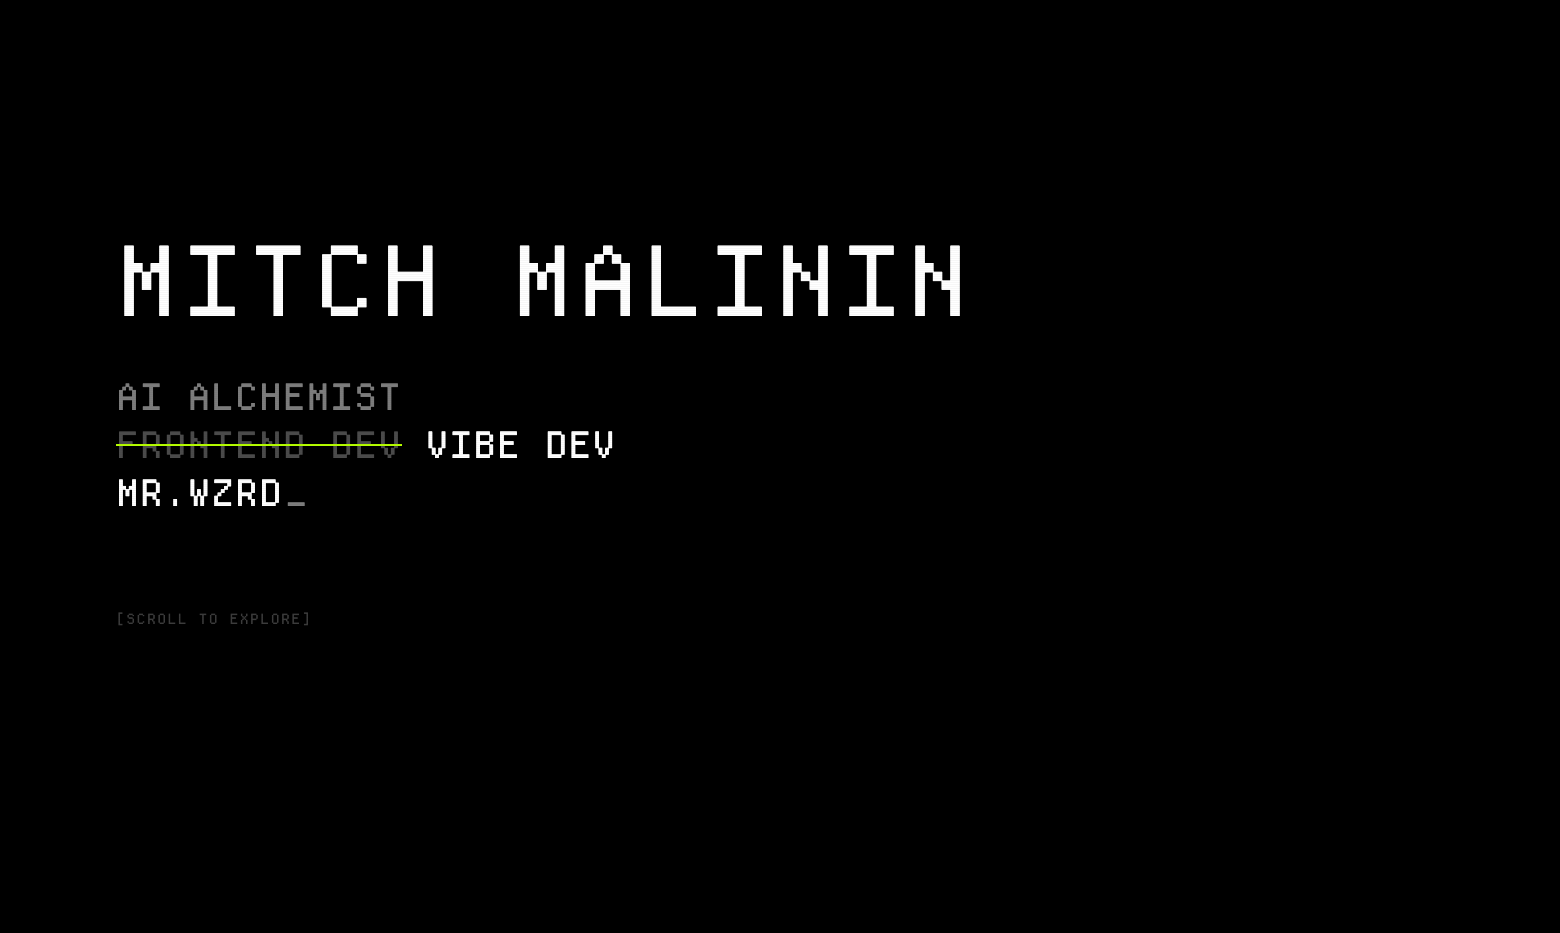
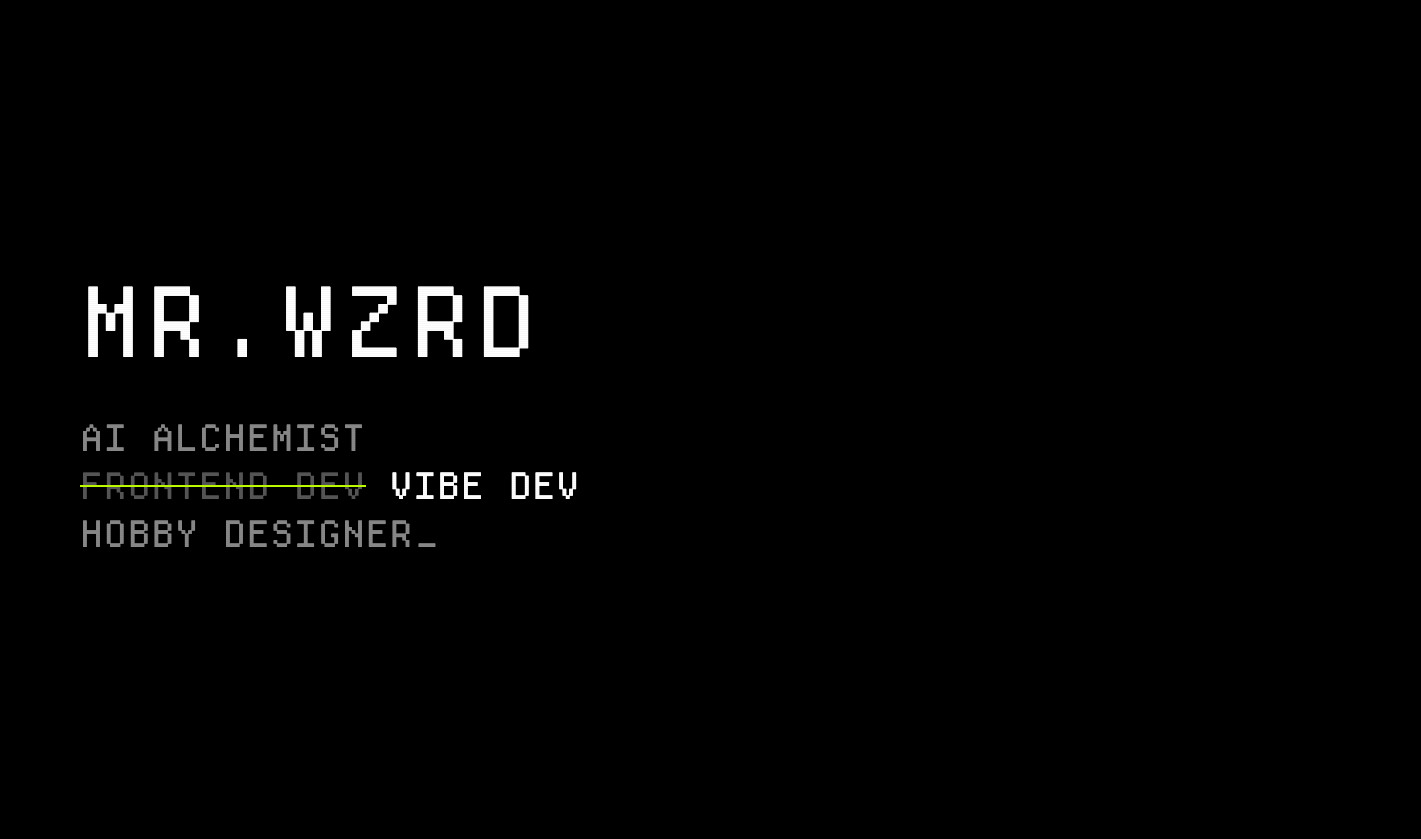
feat: Hero section improvements and scroll lock during loading
- Add toggle name effect (MR.WZRD ↔ MITCH MALININ) on hover/tap
- Change third title from MR.WZRD to HOBBY DESIGNER
- Adjust hero positioning: slightly above center on mobile/desktop
- Fix [MW] logo alignment in mobile nav
- Lock scroll during loading screen (overflow:hidden on html)
- Scale down loading screen ASCII art on mobile
- Update OG image link preview

Changed region(s): [[0.0619, 0.2479, 0.6193, 0.6198], [0.0619, 0.6198, 0.3096, 0.6818]]

diff --git a/components/sections/Hero.tsx b/components/sections/Hero.tsx
@@ -1,8 +1,132 @@
 'use client'
 
-import { useState, useEffect } from 'react'
+import { useState, useEffect, useRef, useCallback } from 'react'
 import { useIsLoaded } from '@/components/PageWrapper'
 import DecryptedText from '@/components/DecryptedText'
+
+// Custom component for the name that toggles between MR.WZRD and MITCH MALININ
+function ToggleName({ isLoaded }: { isLoaded: boolean }) {
+  const [displayText, setDisplayText] = useState('MR.WZRD')
+  const [isToggled, setIsToggled] = useState(false)
+  const [isScrambling, setIsScrambling] = useState(false)
+  const [hasInitialAnimated, setHasInitialAnimated] = useState(false)
+  const [revealedIndices, setRevealedIndices] = useState<Set<number>>(new Set())
+  const [isMobile, setIsMobile] = useState(false)
+  const intervalRef = useRef<ReturnType<typeof setInterval> | null>(null)
+
+  const characters = 'ABCDEFGHIJKLMNOPQRSTUVWXYZ0123456789@#$%&*'
+  const speed = 40
+
+  const targetText = isToggled ? 'MITCH MALININ' : 'MR.WZRD'
+
+  // Detect mobile
+  useEffect(() => {
+    const checkMobile = () => setIsMobile(window.innerWidth < 768)
+    checkMobile()
+    window.addEventListener('resize', checkMobile)
+    return () => window.removeEventListener('resize', checkMobile)
+  }, [])
+
+  const shuffleText = useCallback((target: string, revealed: Set<number>): string => {
+    return target
+      .split('')
+      .map((char, i) => {
+        if (char === ' ') return ' '
+        if (revealed.has(i)) return target[i]
+        return characters[Math.floor(Math.random() * characters.length)]
+      })
+      .join('')
+  }, [characters])
+
+  // Initial animation on load - decrypt to MR.WZRD
+  useEffect(() => {
+    if (!isLoaded || hasInitialAnimated) return
+
+    const target = 'MR.WZRD'
+    setIsScrambling(true)
+    setRevealedIndices(new Set())
+
+    let currentIndex = 0
+    intervalRef.current = setInterval(() => {
+      if (currentIndex < target.length) {
+        setRevealedIndices(prev => {
+          const newSet = new Set(prev)
+          newSet.add(currentIndex)
+          setDisplayText(shuffleText(target, newSet))
+          return newSet
+        })
+        currentIndex++
+      } else {
+        if (intervalRef.current) clearInterval(intervalRef.current)
+        setIsScrambling(false)
+        setDisplayText(target)
+        setHasInitialAnimated(true)
+      }
+    }, speed)
+
+    return () => {
+      if (intervalRef.current) clearInterval(intervalRef.current)
+    }
+  }, [isLoaded, hasInitialAnimated, shuffleText])
+
+  // Toggle animation (hover on desktop, click on mobile)
+  useEffect(() => {
+    if (!hasInitialAnimated) return
+
+    if (intervalRef.current) clearInterval(intervalRef.current)
+
+    setIsScrambling(true)
+    setRevealedIndices(new Set())
+
+    let currentIndex = 0
+    intervalRef.current = setInterval(() => {
+      if (currentIndex < targetText.length) {
+        setRevealedIndices(prev => {
+          const newSet = new Set(prev)
+          newSet.add(currentIndex)
+          setDisplayText(shuffleText(targetText, newSet))
+          return newSet
+        })
+        currentIndex++
+      } else {
+        if (intervalRef.current) clearInterval(intervalRef.current)
+        setIsScrambling(false)
+        setDisplayText(targetText)
+      }
+    }, speed)
+
+    return () => {
+      if (intervalRef.current) clearInterval(intervalRef.current)
+    }
+  }, [isToggled, hasInitialAnimated, targetText, shuffleText])
+
+  const handleClick = () => {
+    if (isMobile) {
+      setIsToggled(prev => !prev)
+    }
+  }
+
+  return (
+    <span
+      className="cursor-pointer select-none"
+      onMouseEnter={() => !isMobile && setIsToggled(true)}
+      onMouseLeave={() => !isMobile && setIsToggled(false)}
+      onClick={handleClick}
+    >
+      {displayText.split('').map((char, index) => {
+        const isRevealed = revealedIndices.has(index) || !isScrambling
+        return (
+          <span
+            key={index}
+            className={isRevealed ? 'text-white' : 'text-[#444444]'}
+          >
+            {char}
+          </span>
+        )
+      })}
+    </span>
+  )
+}
 
 export default function Hero() {
   const isLoaded = useIsLoaded()
@@ -37,33 +161,19 @@ export default function Hero() {
   }, [isLoaded])
 
   return (
-    <section className="min-h-screen flex flex-col justify-center section-padding pt-24 md:pt-0">
-      <div className="max-w-4xl">
-        {/* Name */}
+    <section className="min-h-screen flex flex-col justify-center section-padding relative">
+      <div className="max-w-4xl mb-[16rem] md:mb-24 lg:mb-32">
+        {/* Name - toggles between MR.WZRD and MITCH MALININ on hover */}
         <h1
-          className={`text-4xl sm:text-5xl md:text-7xl lg:text-8xl uppercase tracking-wider mb-8 md:mb-12 hover-glow transition-all duration-700 ${
+          className={`text-5xl sm:text-6xl md:text-7xl lg:text-8xl uppercase tracking-wider mb-6 md:mb-12 hover-glow transition-all duration-700 ${
             isLoaded ? 'opacity-100 translate-y-0' : 'opacity-0 translate-y-8'
           }`}
         >
-          {isLoaded ? (
-            <DecryptedText
-              text="MITCH MALININ"
-              speed={40}
-              maxIterations={20}
-              sequential={true}
-              revealDirection="start"
-              animateOn="view"
-              characters="ABCDEFGHIJKLMNOPQRSTUVWXYZ0123456789@#$%&*"
-              className="text-white"
-              encryptedClassName="text-[#444444]"
-            />
-          ) : (
-            'MITCH MALININ'
-          )}
+          <ToggleName isLoaded={isLoaded} />
         </h1>
 
         {/* Titles */}
-        <div className="text-lg sm:text-xl md:text-3xl lg:text-4xl text-[#888888] uppercase tracking-wide space-y-1 md:space-y-2">
+        <div className="text-xl sm:text-2xl md:text-3xl lg:text-4xl text-[#888888] uppercase tracking-wide space-y-2 md:space-y-2">
           <p
             className={`transition-all duration-700 delay-100 ${
               isLoaded ? 'opacity-100 translate-y-0' : 'opacity-0 translate-y-8'
@@ -143,33 +253,33 @@ export default function Hero() {
             <span className="cursor">
               {isLoaded ? (
                 <DecryptedText
-                  text="MR.WZRD"
+                  text="HOBBY DESIGNER"
                   speed={60}
                   maxIterations={25}
                   sequential={true}
                   revealDirection="start"
                   animateOn="view"
-                  characters="ABCDEFGHIJKLMNOPQRSTUVWXYZ0123456789.@#"
-                  className="text-white"
-                  encryptedClassName="text-[#555555]"
+                  characters="ABCDEFGHIJKLMNOPQRSTUVWXYZ_"
+                  className="text-[#888888]"
+                  encryptedClassName="text-[#333333]"
                 />
               ) : (
-                'MR.WZRD'
+                'HOBBY DESIGNER'
               )}
             </span>
           </p>
         </div>
+      </div>
 
-        {/* Scroll indicator */}
-        <div
-          className={`mt-12 md:mt-24 transition-all duration-700 delay-500 ${
-            isLoaded ? 'opacity-100 translate-y-0' : 'opacity-0 translate-y-8'
-          }`}
-        >
-          <p className="text-[#444444] text-xs md:text-sm uppercase tracking-widest">
-            [SCROLL TO EXPLORE]
-          </p>
-        </div>
+      {/* Scroll indicator - fixed at bottom */}
+      <div
+        className={`absolute bottom-8 left-0 right-0 section-padding transition-all duration-700 delay-500 ${
+          isLoaded ? 'opacity-100 translate-y-0' : 'opacity-0 translate-y-8'
+        }`}
+      >
+        <p className="text-[#444444] text-xs md:text-sm uppercase tracking-widest">
+          [SCROLL TO EXPLORE]
+        </p>
       </div>
     </section>
   )

diff --git a/components/ui/LoadingScreen.tsx b/components/ui/LoadingScreen.tsx
@@ -7,6 +7,13 @@ export default function LoadingScreen({ onLoadComplete }: { onLoadComplete?: () 
   const [isComplete, setIsComplete] = useState(false)
   const [isHidden, setIsHidden] = useState(false)
 
+  // Enable scrolling when loading is complete
+  useEffect(() => {
+    if (isComplete) {
+      document.documentElement.classList.add('loaded')
+    }
+  }, [isComplete])
+
   useEffect(() => {
     const duration = 2500 // 2.5 second loading
     const interval = 50
@@ -35,12 +42,12 @@ export default function LoadingScreen({ onLoadComplete }: { onLoadComplete?: () 
 
   return (
     <div
-      className={`fixed inset-0 bg-black z-[10000] flex flex-col items-center justify-center gap-8 transition-opacity duration-500 ${
+      className={`fixed top-0 left-0 w-screen h-screen bg-black z-[10000] flex flex-col items-center justify-center gap-8 transition-opacity duration-500 overflow-hidden px-4 ${
         isComplete ? 'opacity-0 pointer-events-none' : 'opacity-100'
       }`}
     >
       {/* MW ASCII Logo - W is M flipped upside-down with matched height */}
-      <div className="flex items-start gap-6 text-[#ffffff] text-[8px] md:text-xs lg:text-sm leading-tight tracking-tighter font-mono select-none">
+      <div className="flex items-start gap-2 md:gap-6 text-[#ffffff] text-[6px] sm:text-[8px] md:text-xs lg:text-sm leading-tight tracking-tighter font-mono select-none scale-[0.8] sm:scale-100">
         {/* M */}
         <pre className="m-0">{`███╗   ███╗
 ████╗ ████║

diff --git a/components/ui/Navigation.tsx b/components/ui/Navigation.tsx
@@ -41,8 +41,8 @@ function MobileNav() {
     <div className="md:hidden fixed top-0 left-0 right-0 z-50">
       {/* Collapsed bar */}
       <div className="flex items-center justify-between p-3 bg-black/95 backdrop-blur-sm border-b border-dashed border-[#333333]">
-        <span className="text-xs uppercase tracking-wider text-[#666666]">
-          [MW]
+        <span className="text-xs uppercase tracking-wider text-white font-mono leading-none">
+          [M<span className="inline-block ml-[1px]" style={{ transform: 'rotate(180deg)', position: 'relative', top: '-1px' }}>M</span>]
         </span>
         <button
           onClick={() => setIsOpen(!isOpen)}

diff --git a/app/globals.css b/app/globals.css
@@ -54,6 +54,11 @@
 
 html {
   scroll-behavior: smooth;
+  overflow: hidden;
+}
+
+html.loaded {
+  overflow: auto;
 }
 
 body {
@@ -65,6 +70,7 @@ body {
   overflow-x: hidden;
   letter-spacing: 0.02em;
 }
+
 
 /* CRT Scanline overlay */
 body::after {
